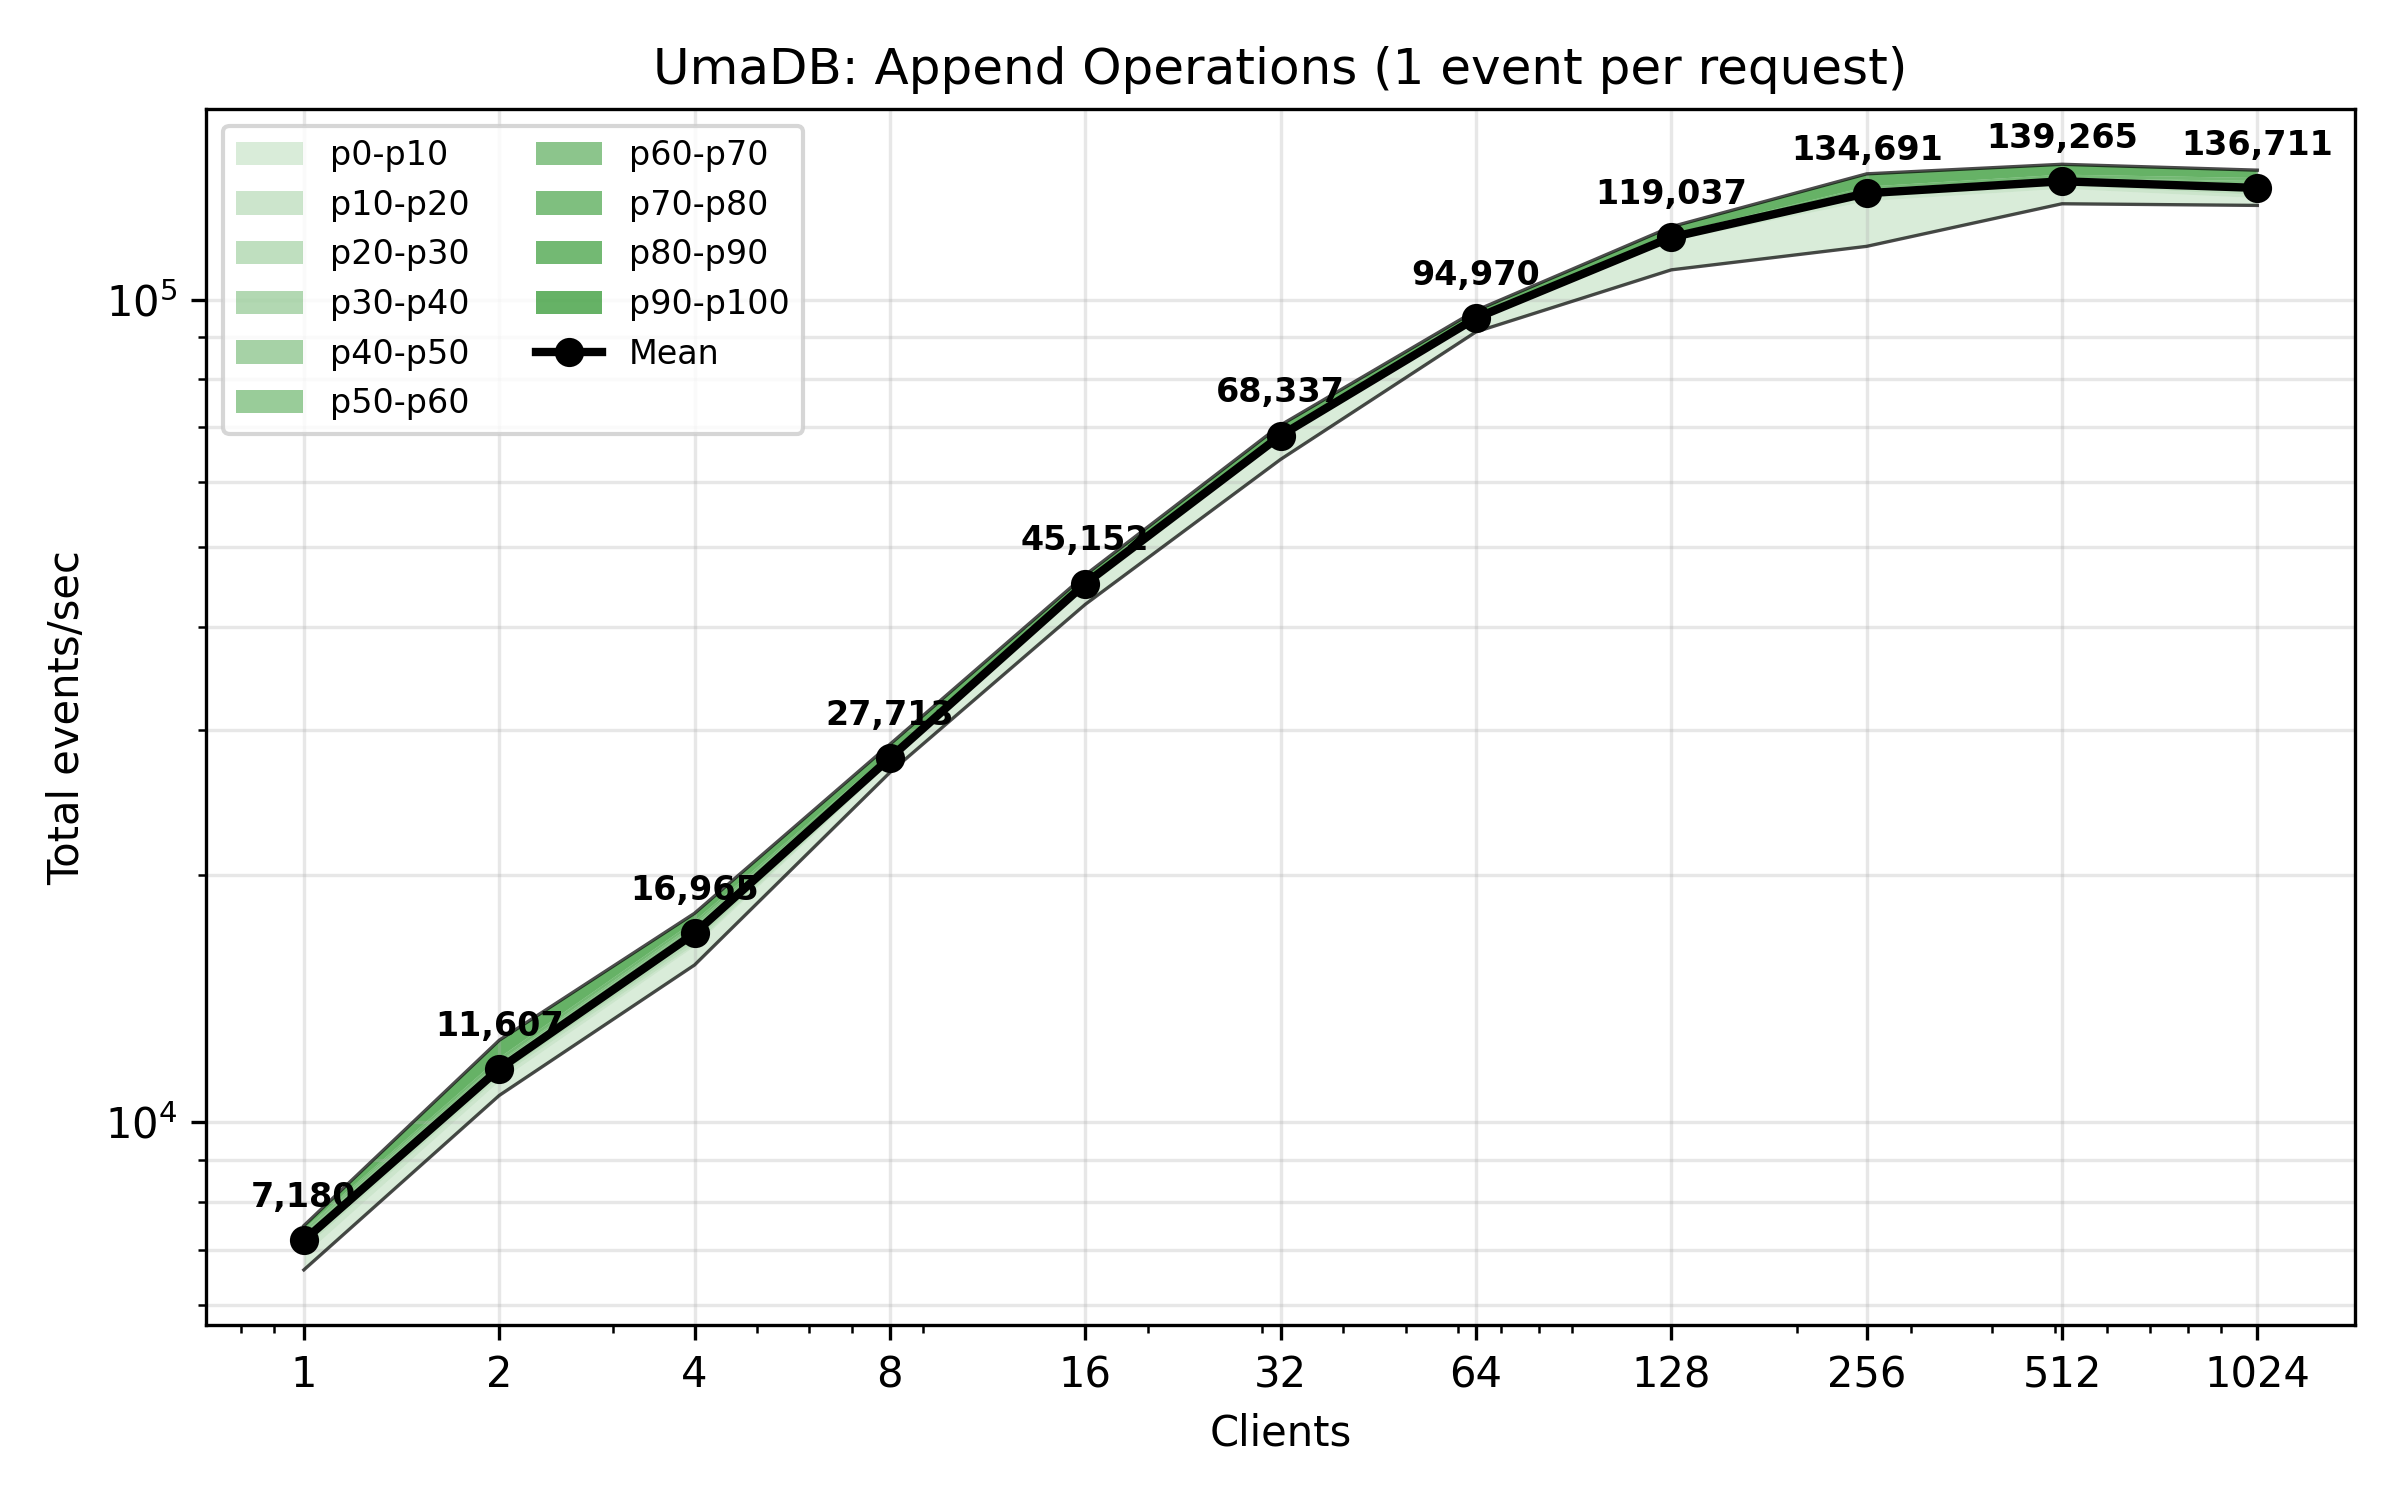
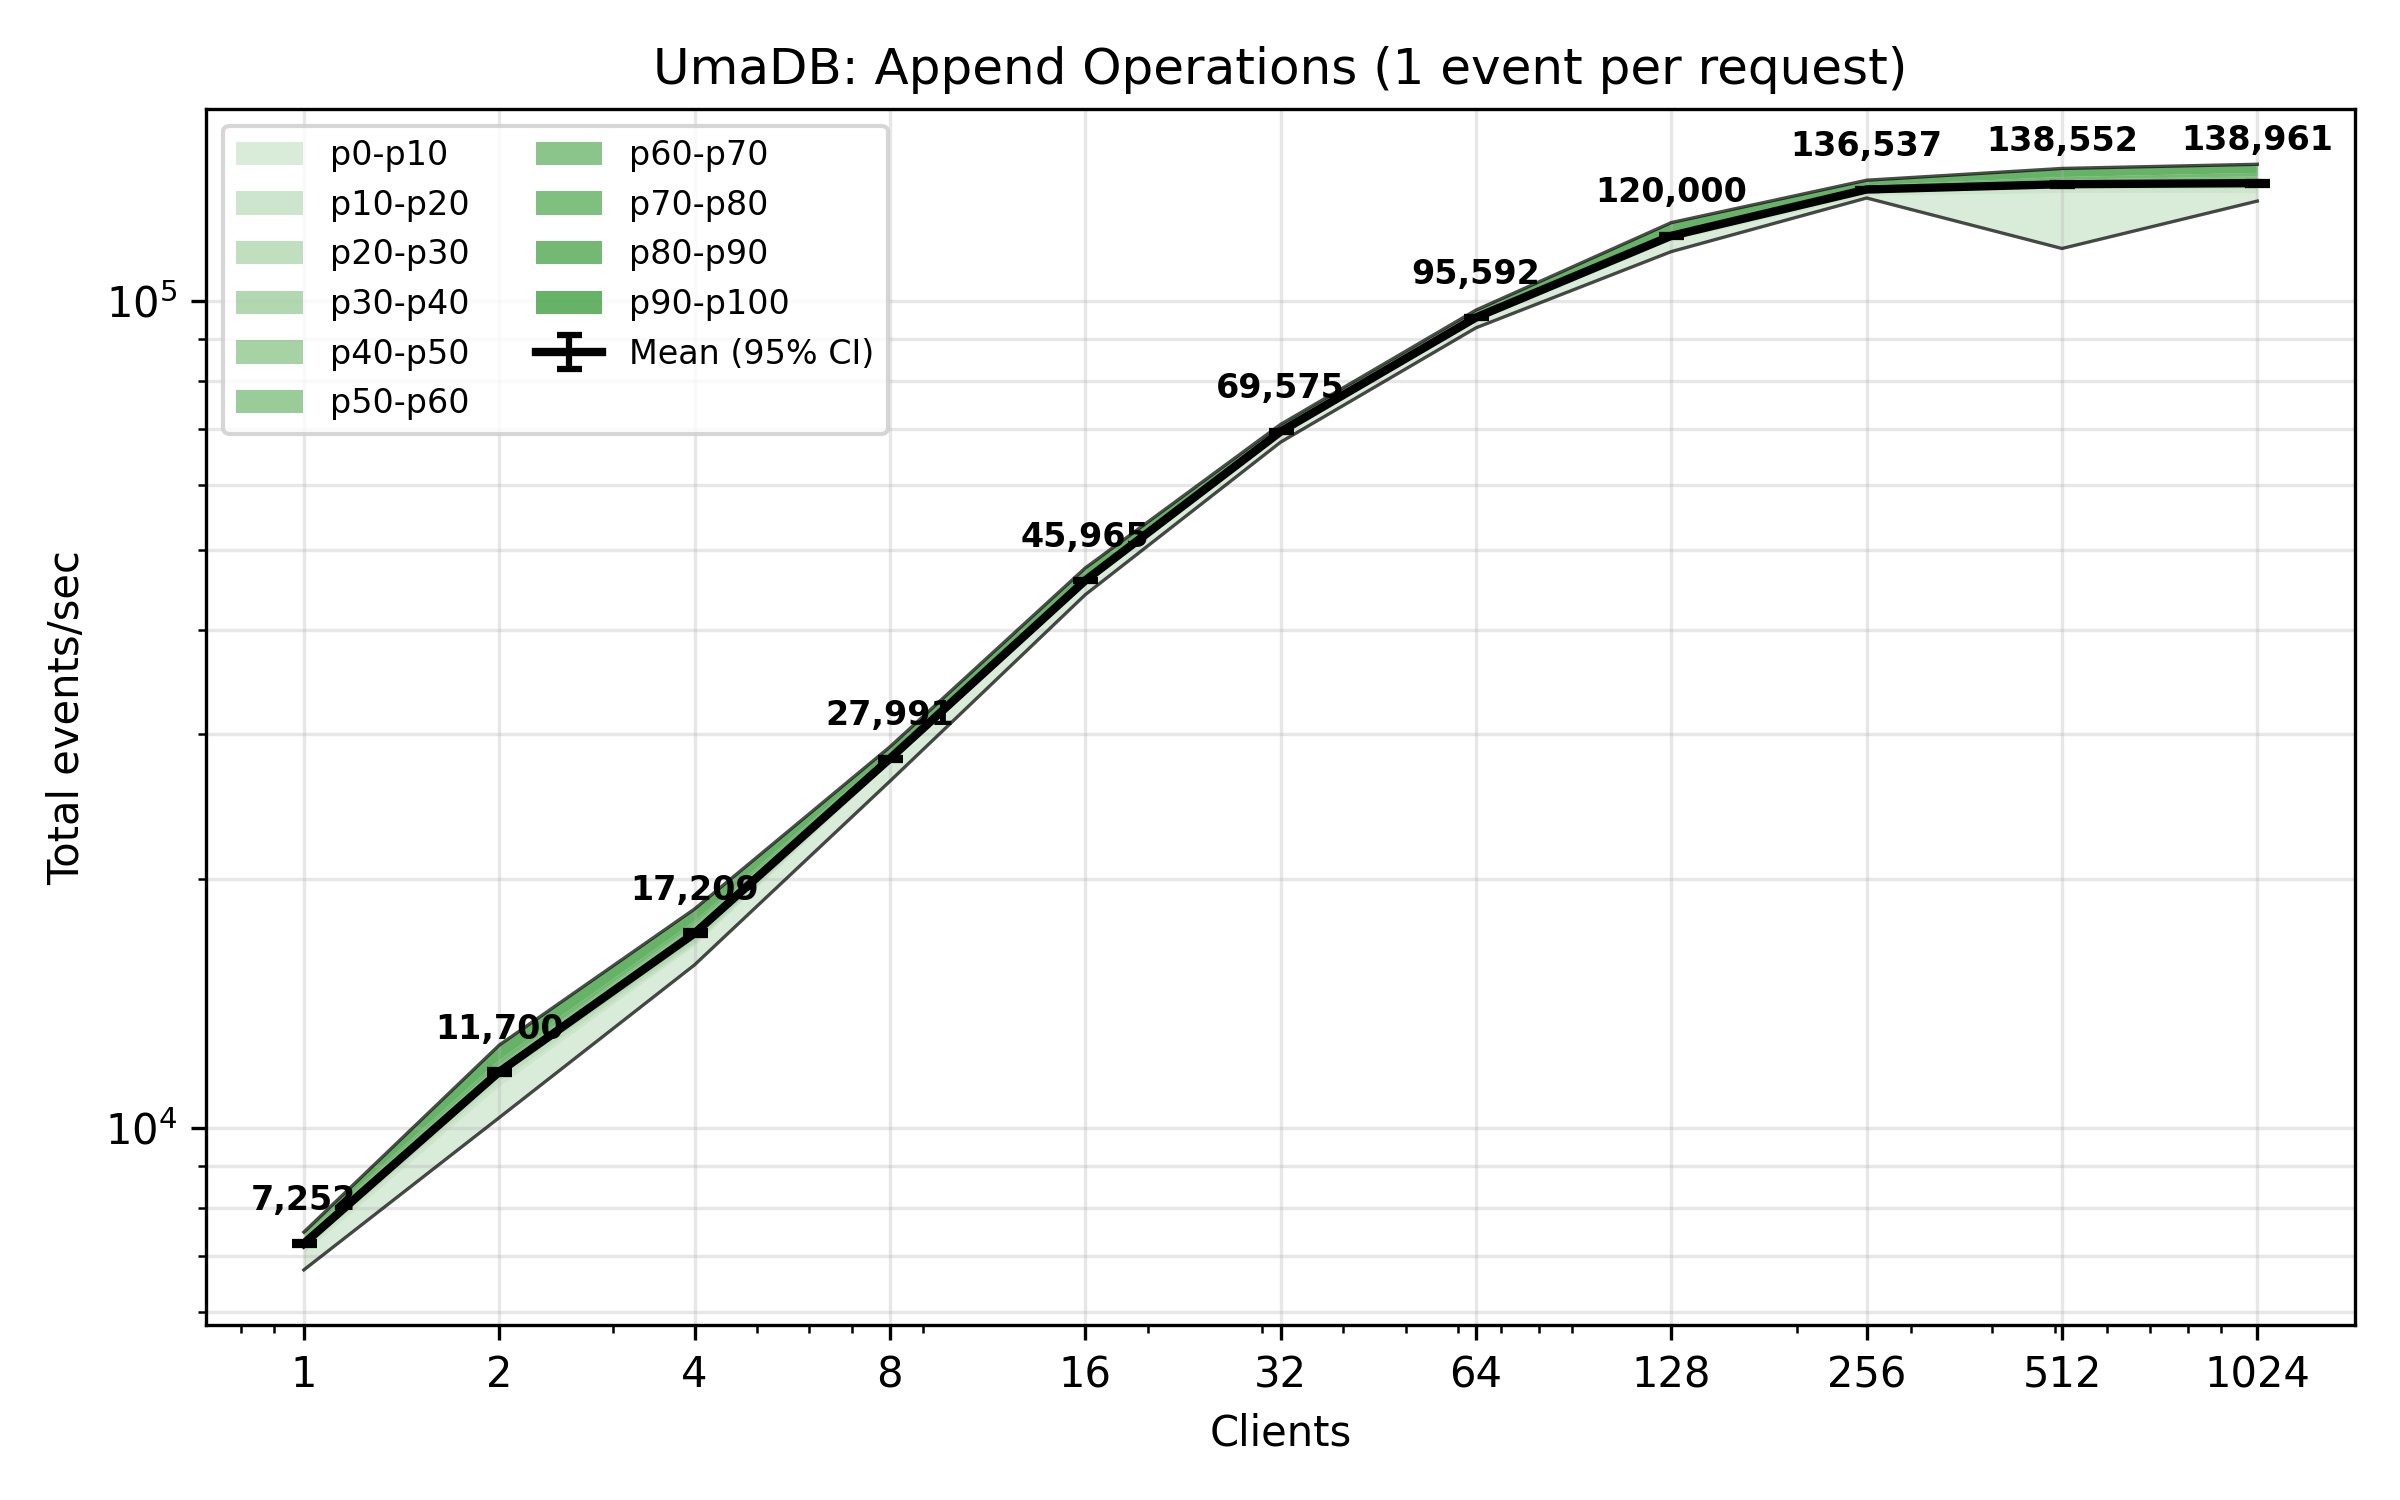
Added a Makefile for more convenient running of benchmarks.

diff --git a/crates/benches/benches/grpc_append_bench_plot.py b/crates/benches/benches/grpc_append_bench_plot.py
@@ -2,22 +2,25 @@ import json
 import numpy as np
 import matplotlib.pyplot as plt
 from pathlib import Path
+import os
 
 # Keep this in sync with benches/grpc_append
-EVENTS_PER_REQUEST = 1  # number of events appended per client request
+EVENTS_PER_REQUEST = int(os.environ.get('EVENTS_PER_REQUEST', '10'))  # number of events appended per client request
 
 # Thread variants you ran (match the bench). Edit if you change the bench.
 threads = [1, 2, 4, 8, 16, 32, 64, 128, 256, 512, 1024]
 
 x = []
 mean_throughputs = []
+ci_lower_throughputs = []
+ci_upper_throughputs = []
 # Store percentile throughputs for each decile band
 # percentile_throughputs[i] contains list of throughputs for i*10 percentile
 percentile_throughputs = [[] for _ in range(11)]  # 0, 10, 20, ..., 100
 
 for t in threads:
-    sample_path = Path(f"target/criterion/grpc_append/{t}/new/sample.json")
-    est_path = Path(f"target/criterion/grpc_append/{t}/new/estimates.json")
+    sample_path = Path(f"target/criterion/grpc_append_{EVENTS_PER_REQUEST}_per_request/{t}/new/sample.json")
+    est_path = Path(f"target/criterion/grpc_append_{EVENTS_PER_REQUEST}_per_request/{t}/new/estimates.json")
     if not sample_path.exists() or not est_path.exists():
         # Skip missing variants gracefully
         continue
@@ -42,10 +45,21 @@ for t in threads:
     mean_ns = est_data['mean']['point_estimate']
     mean_sec = mean_ns / 1e9
     
+    # Get confidence interval bounds for mean
+    ci_lower_ns = est_data['mean']['confidence_interval']['lower_bound']
+    ci_upper_ns = est_data['mean']['confidence_interval']['upper_bound']
+    ci_lower_sec = ci_lower_ns / 1e9
+    ci_upper_sec = ci_upper_ns / 1e9
+    
     events_total = EVENTS_PER_REQUEST * t  # total across all threads for this variant
     
     # Calculate mean throughput
     mean_eps = events_total / mean_sec
+    
+    # Calculate CI throughputs (note: inverse relationship with time)
+    # Lower time bound = upper throughput bound, upper time bound = lower throughput bound
+    ci_lower_eps = events_total / ci_upper_sec
+    ci_upper_eps = events_total / ci_lower_sec
     
     # Calculate throughput for each percentile (note: inverse relationship with time)
     # Lower time = higher throughput, so we reverse the percentiles
@@ -53,8 +67,17 @@ for t in threads:
     
     x.append(t)
     mean_throughputs.append(mean_eps)
+    ci_lower_throughputs.append(ci_lower_eps)
+    ci_upper_throughputs.append(ci_upper_eps)
     for i, eps in enumerate(percentile_eps):
         percentile_throughputs[i].append(eps)
+
+# Check if any data was found
+if len(x) == 0:
+    print(f"Error: No benchmark data found for EVENTS_PER_REQUEST={EVENTS_PER_REQUEST}")
+    print(f"Expected to find data in: target/criterion/grpc_append_{EVENTS_PER_REQUEST}_per_request/*/new/")
+    print(f"Please run the benchmark first: make bench-append-{EVENTS_PER_REQUEST}")
+    exit(1)
 
 plt.figure(figsize=(8, 5))
 
@@ -92,9 +115,15 @@ for i in range(num_bands):
 plt.plot(x, percentile_throughputs[0], linestyle='-', linewidth=0.8, color='black', alpha=0.7, zorder=5)
 plt.plot(x, percentile_throughputs[10], linestyle='-', linewidth=0.8, color='black', alpha=0.7, zorder=5)
 
-# Plot mean throughput with round markers in black
-plt.plot(x, mean_throughputs, marker='o', linestyle='-', linewidth=2, markersize=6, 
-         label='Mean', color='black', zorder=10)
+# Calculate error bar values (asymmetric errors)
+yerr_lower = [mean - lower for mean, lower in zip(mean_throughputs, ci_lower_throughputs)]
+yerr_upper = [upper - mean for mean, upper in zip(mean_throughputs, ci_upper_throughputs)]
+
+# Plot mean throughput with round markers in black and confidence intervals
+plt.errorbar(x, mean_throughputs, yerr=[yerr_lower, yerr_upper], 
+             marker='', linestyle='-', linewidth=2, markersize=4,
+             label='Mean (95% CI)', color='black', capsize=3, capthick=1.5, 
+             elinewidth=1.5, zorder=10)
 
 # Add numerical annotations for mean values
 for t, eps in zip(x, mean_throughputs):

diff --git a/crates/benches/benches/grpc_append_bench.rs b/crates/benches/benches/grpc_append_bench.rs
@@ -13,7 +13,12 @@ use umadb_core::db::UmaDB;
 use umadb_dcb::{DCBEvent, DCBEventStoreAsync, DCBEventStoreSync};
 use umadb_server::start_server;
 
-const EVENTS_PER_REQUEST: usize = 1;
+fn get_events_per_request() -> usize {
+    std::env::var("EVENTS_PER_REQUEST")
+        .ok()
+        .and_then(|s| s.parse().ok())
+        .unwrap_or(10)
+}
 
 fn init_db_with_events(num_events: usize) -> (tempfile::TempDir, String) {
     let dir = tempdir().expect("tempdir");
@@ -46,7 +51,9 @@ fn init_db_with_events(num_events: usize) -> (tempfile::TempDir, String) {
 
 pub fn grpc_append_benchmark(c: &mut Criterion) {
     // for &threads in &[1usize, 2, 4] {
-    let mut group = c.benchmark_group("grpc_append");
+    let events_per_request = get_events_per_request();
+    let group_name = format!("grpc_append_{}_per_request", events_per_request);
+    let mut group = c.benchmark_group(&group_name);
     group.sample_size(100);
     group.measurement_time(Duration::from_secs(10));
 
@@ -99,10 +106,11 @@ pub fn grpc_append_benchmark(c: &mut Criterion) {
         }
 
         // Number of events appended per iteration per client
+        let events_per_request = get_events_per_request();
 
         // Report throughput as the total across all runtime worker threads (informational)
         group.throughput(Throughput::Elements(
-            (EVENTS_PER_REQUEST as u64) * (threads as u64),
+            (events_per_request as u64) * (threads as u64),
         ));
 
         // Build a Tokio runtime and multiple persistent clients (one per concurrent writer)
@@ -124,7 +132,7 @@ pub fn grpc_append_benchmark(c: &mut Criterion) {
             let clients = clients.clone();
             b.iter(|| {
                 // Build the batch of events per iteration (per task)
-                let events: Vec<DCBEvent> = (0..EVENTS_PER_REQUEST)
+                let events: Vec<DCBEvent> = (0..events_per_request)
                     .map(|i| DCBEvent {
                         event_type: "bench-append".to_string(),
                         data: format!("data-{i}").into_bytes(),
